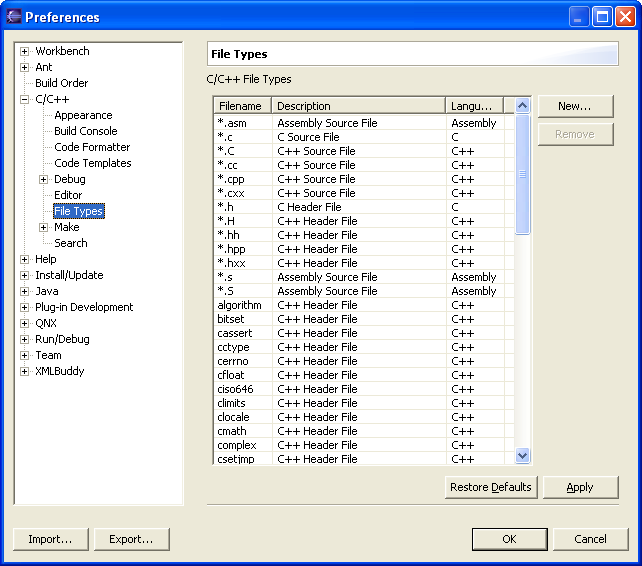
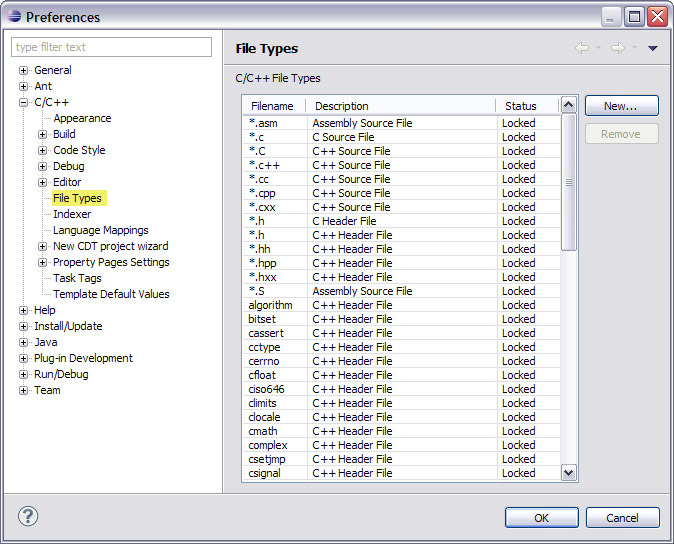
Revised Breakpoint Actions, Common Source Lookup, Editor, File Types, Debug, and Language Mapping preference panels for CDT-7.0.

diff --git a/doc/org.eclipse.cdt.doc.user/reference/cdt_u_debug.htm b/doc/org.eclipse.cdt.doc.user/reference/cdt_u_debug.htm
@@ -4,34 +4,64 @@
 <head>
 	<meta http-equiv="Content-Language" content="en-us">
 	<meta http-equiv="Content-Type" content="text/html; charset=UTF-8">
-	<title>Debug page, Preferences window</title>
+	<title>Debug Preferences</title>
 	<link rel="stylesheet" type="text/css" href="../help.css">
+	<script language="JavaScript" src="PLUGINS_ROOT/org.eclipse.help/livehelp.js"></script>
 </head>
 <body>
 
-<h1>Debug page, Preferences window</h1>
+<h1>Debug preferences</h1>
 
-<p>You can manipulate any of the common predefined debug settings by clicking <strong>Window &gt; Preferences &gt; C/C++ &gt; Debug</strong>.</p>
-
+<p>Use the <img src="../images/command_link.png" border="0" alt="" /> <a class="command-link" href='javascript:executeCommand("org.eclipse.ui.window.preferences(preferencePageId=org.eclipse.cdt.debug.ui.CDebugPreferencePage)")'>Debug</a> preference panel in the <b>Preferences</b> window to manage common globally defined debug settings.</p>
 <img src="../images/debug_pref.png"  alt="Debug Preferences">
-<dl>
-  <dt>Show Full Paths</dt>
-  <dd>Select this checkbox to show the full path to files and directories.</dd>
-  <dt>Default variable format:</dt>
-  <dd>Select the default variable format from either Natural, Decimal or Hexidecimal.</dd>
-  <dt>Default expression format:</dt>
-  <dd>Select the default expression format from either Natural, Decimal or Hexidecimal.</dd>
-  <dt>Default register format:</dt>
-  <dd>Select the default register format from either Natural, Decimal or Hexidecimal.</dd>
-  <dt>Maximum number of instructions:</dt>
-  <dd>Enter the maximum number of disassembly instruction to be shown in the Disassembly view.</dd>
-  <dt>Color of source lines:</dt>
-  <dd>Select the color of source lines in the mixed source/disassembly mode.</dd>
-</dl>
+
+<p />
+<table width="600px" cellpadding="4" cellspacing="0" border="1" fgcolor="DDD">
+	<caption><b>Debug Preference Options</b></caption>
+	<colgroup>
+		<col width="35%" valign="top" >
+		<col width="65%" valign="top" >
+	</colgroup>
+	<tbody>
+		<tr align="center">
+			<td ><b>Options</b></td>
+			<td ><b>Description</b></td>
+		</tr>
+		<tr>
+			<td><b>Show Full Paths</b></td>
+			<td>Select this checkbox to show the full path to files and directories.</td>
+		</tr>
+		<tr>
+			<td><b>Default variable format</b></td>
+			<td>Select the default variable format from either Natural, Hexidecimal, Decimal or binary.</td>
+		</tr>
+		<tr>
+			<td><b>Default expression format</b></td>
+			<td>Select the default expression format from either Natural, Hexidecimal, Decimal or binary.</td>
+		</tr>
+		<tr>
+			<td><b>Default register format</b></td>
+			<td>Select the default register format from either Natural, Hexidecimal, Decimal or binary.</td>
+		</tr>
+		<tr>
+			<td><b>Character encoding</b></td>
+			<td>Select a character encoding scheme from the dropdown list.</td>
+		</tr>
+		<tr>
+			<td><b>Maximum number of displayed instructions</b></td>
+			<td>Enter the maximum number of disassembly instruction to be shown in the Disassembly view.</td>
+		</tr>
+		<tr>
+			<td><b>Color of source lines</b></td>
+			<td>Select the color of source lines in the mixed source/disassembly mode.</td>
+		</tr>
+		<tr>
+			<td><b>Show source files in binaries</b></td>
+			<td>Select this checkbox to show the source files in binaries.</td>
+		</tr>
+	</tbody>
+</table>
 
 <p><img src="../images/ng00_04a.gif" ALT="IBM Copyright Statement" ></p>
-
-
 </body>
-
 </html>

diff --git a/doc/org.eclipse.cdt.doc.user/reference/cdt_u_language_mapping_pref.htm b/doc/org.eclipse.cdt.doc.user/reference/cdt_u_language_mapping_pref.htm
@@ -6,24 +6,29 @@
 <meta http-equiv="Content-Type" content="text/html; charset=UTF-8">
 <title>Language Mappings preferences</title>
 <link rel="stylesheet" type="text/css" href="../help.css">
+<script language="JavaScript" src="PLUGINS_ROOT/org.eclipse.help/livehelp.js"></script>
 </head>
 
 <body>
 
 <h1>Language Mappings preferences</h1>
 
-<p>Customize the use of C/C++ language associations in the <strong>Language Mappings</strong> preference panel for the workspace. </p>
-<p><img src="../images/view_language_mappings_prefs.png" width="627" height="544" alt="Language Mappings preferences"></p>
+<p>Use the <img src="../images/command_link.png" border="0" alt="" /> <a class="command-link" href='javascript:executeCommand("org.eclipse.ui.window.preferences(preferencePageId=org.eclipse.cdt.ui.preferences.LanguageMappings)")'>Language Mappings</a> preference panel to customize the use of C/C++ language associations for the workspace. </p>
+<p><img src="../images/view_language_mappings_prefs.png" alt="Language Mappings preferences"></p>
 
-<table width="600" cellpadding="5" cellspacing="0" border="1" >
+<table width="600" cellpadding="5" cellspacing="0" border="1" fgcolor="DDD" >
 	<caption>
-	<strong>Language Mappings  Options</strong>
+	<strong>Language Mappings Preference Options</strong>
 	</caption>
 	<colgroup>
 		<col width="30%" valign="top" >
 		<col width="70%" valign="top" >
 	</colgroup>
 	<tbody>
+		<tr align="center">
+			<td><strong>Options</strong></td>
+			<td><strong>Description</strong></td>
+		</tr>
 		<tr>
 			<td width="171" valign="top"><strong>Content Type </strong></td>
 			<td width="503" valign="top">The content type associated with the language. </td>
@@ -33,13 +38,13 @@
 			<td valign="top">The language associated with the content type. </td>
 		</tr>
 		<tr>
-			<td valign="top"><strong>Add</strong></td>
-			<td valign="top"><p>Click to show the <strong>Add Mapping</strong> dialog where you define the content type and language associated with it. </p>
-		    <p align="center"><img src="../images/view_add_mapping.png" width="216" height="134" alt="Add Mapping dialog"></p></td>
+			<td valign="top"><strong>Add...</strong></td>
+			<td valign="top">Click to show the <strong>Add Mapping</strong> dialog where you define the content type and language associated with it.<br />
+		    <p align="center"><img src="../images/view_add_mapping.png" alt="Add Mapping dialog"></p></td>
 		</tr>
 		<tr>
 		  <td valign="top"><strong>Remove</strong></td>
-		  <td valign="top">Click to remove the selected langauge mapping. </td>
+		  <td valign="top">Click to remove the selected language mapping. </td>
 	  </tr>
 	</tbody>
 </table>

diff --git a/doc/org.eclipse.cdt.doc.user/reference/cdt_u_dbg_brkpt_actions.htm b/doc/org.eclipse.cdt.doc.user/reference/cdt_u_dbg_brkpt_actions.htm
@@ -6,32 +6,36 @@
 	<meta http-equiv="Content-Type" content="text/html; charset=UTF-8">
 	<title>Breakpoint Actions preferences</title>
 	<link rel="stylesheet" type="text/css" href="../help.css">
+	<script language="JavaScript" src="PLUGINS_ROOT/org.eclipse.help/livehelp.js"></script>
 </head>
 <body>
 
 <h1>Breakpoint Actions preferences</h1>
 
-<p>Use the <strong>Breakpoint Actions</strong>  page in the Preferences window to create, edit, and remove breakpoint actions. The breakpoint actions defined here are available to all projects in the current workspace.</p>
-<p><img src="../images/cdt_pref_brk_action.png" width="581" height="527" alt="Breakpoint Actions preference page"></p>
+<p>Use the <img src="../images/command_link.png" border="0" alt="" /> <a class="command-link" href='javascript:executeCommand("org.eclipse.ui.window.preferences(preferencePageId=org.eclipse.cdt.debug.ui.breakpointactions.ActionsPreferencePage)")'>Breakpoint Actions</a>  page in the <b>Preferences</b> window to create, edit, and remove breakpoint actions. The breakpoint actions defined here are available to all projects in the current workspace.</p>
+<p><img src="../images/cdt_pref_brk_action.png" alt="Breakpoint Actions preference page"></p>
 
-<table width="600px" cellpadding="5" cellspacing="0" border="1" >
+<table width="600px" cellpadding="4" cellspacing="0" border="1" >
 	<caption><strong>Breakpoint Actions Preference Options</strong></caption>
 	<colgroup>
 		<col width="30%" valign="top" >
 		<col width="70%" valign="top" >
 	</colgroup>
 	<tbody>
-		<tr>
-			<td width="30%" valign="top"><strong>New...</strong></td>
-			<td valign="top"><p>To create a new breakpoint action, click <strong>New</strong>. </p>
-	        </td>
+		<tr align="center" >
+			<td><strong>Options</strong></td>
+			<td><strong>Description</strong></td>
 		</tr>
 		<tr>
-			<td width="30%" valign="top"><strong>Edit...</strong></td>
+			<td valign="top"><strong>New...</strong></td>
+			<td valign="top">To create a new breakpoint action, click <strong>New</strong>.</td>
+		</tr>
+		<tr>
+			<td valign="top"><strong>Edit...</strong></td>
 			<td valign="top">To edit the currently selected action, click <strong>Edit</strong>. In the  Action dialog box that appears, edit the action settings, then click <strong>OK</strong>. </td>
 		</tr>
 		<tr>
-			<td width="30%" valign="top"><strong>Delete</strong></td>
+			<td valign="top"><strong>Delete</strong></td>
 			<td valign="top">To delete the currently selected action, click <strong>Delete</strong>. </td>
 		</tr>
 	</tbody>

diff --git a/doc/org.eclipse.cdt.doc.user/reference/cdt_u_dbg_src.htm b/doc/org.eclipse.cdt.doc.user/reference/cdt_u_dbg_src.htm
@@ -6,14 +6,15 @@
 	<meta http-equiv="Content-Type" content="text/html; charset=UTF-8">
 	<title>Common Source Lookup Path preferences</title>
 	<link rel="stylesheet" type="text/css" href="../help.css">
+	<script language="JavaScript" src="PLUGINS_ROOT/org.eclipse.help/livehelp.js"></script>
 </head>
 <body>
 
 <h1>Common Source Lookup Path preference</h1>
 
-<p>Use the <strong>Common Source Lookup Path</strong> preference page to add or remove source containers.</p>
+<p>Use the <img src="../images/command_link.png" border="0" alt="" /> <a class="command-link" href='javascript:executeCommand("org.eclipse.ui.window.preferences(preferencePageId=org.eclipse.cdt.debug.ui.SourcePreferencePage)")'>Common Source Lookup Path</a> preference page to add or remove source containers.</p>
 
-<p><img src="../images/debug_src_pref.png"  alt="Debug Source Code Locations Preferences" width="627" height="544"></p>
+<p><img src="../images/debug_src_pref.png"  alt="Debug Source Code Locations Preferences" ></p>
 
   <table width="600px" cellpadding="5" cellspacing="0" border="1" >
     <caption>
@@ -24,9 +25,13 @@
       <col width="70%" valign="top" >
     </colgroup>
     <tbody>
+      <tr align="center">
+        <td valign="top"><strong>Options</strong></td>
+        <td><strong>Description</strong></td>
+      </tr>
       <tr>
         <td width="99" valign="top"><strong>Add...</strong></td>
-        <td width="475"><p>Opens the <strong>Add Source</strong> dialog to insert a new source container of one of the following types:</p>
+        <td width="475">Opens the <strong>Add Source</strong> dialog to insert a new source container of one of the following types:<br /><br />
           <ul>
 		  <li>File System Directory</li>
 		  <li>Path Mapping</li>
@@ -38,11 +43,11 @@
       </tr>
       <tr>
         <td valign="top"><strong>Edit...</strong></td>
-        <td>Opens the <strong>Edit File System Director</strong>y dialog to modify the currently selected souce container.</td>
+        <td>Opens the <strong>Edit File System Director</strong>y dialog to modify the currently selected source container.</td>
       </tr>
       <tr>
         <td valign="top"><strong>Remove</strong></td>
-        <td>Remove the currently selected souce container.</td>
+        <td>Remove the currently selected source container.</td>
       </tr>
       <tr>
         <td valign="top"><strong>Up</strong></td>

diff --git a/doc/org.eclipse.cdt.doc.user/reference/cdt_u_c_file_types.htm b/doc/org.eclipse.cdt.doc.user/reference/cdt_u_c_file_types.htm
@@ -4,21 +4,38 @@
 <head>
 	<meta http-equiv="Content-Language" content="en-us">
 	<meta http-equiv="Content-Type" content="text/html; charset=UTF-8">
-	<title>C/C++ File Types page, Preferences window</title>
+	<title>File Types preference (C/C++)</title>
 	<link rel="stylesheet" type="text/css" href="../help.css">
+	<script language="JavaScript" src="PLUGINS_ROOT/org.eclipse.help/livehelp.js"></script>
 </head>
 <body>
 
-<h1>C/C++ File Types page, Preferences window</h1>
+<h1>File Types preference (C/C++)</h1>
 
-<p>You can define which file extensions are linked to specific languages.</p>
-<p><img src="../images/cdt_pref_file_types.png" alt="File Types Preferences Dialog Box"></p>
-<dl>
-  <dt>New</dt>
-  <dd>Add a new File Type definition.</dd>
-  <dt>Remove</dt>
-  <dd>Remove the currently selected File Type definition.</dd>
-</dl>
+<p>Use the <img src="../images/command_link.png" border="0" alt="" /> <a class="command-link" href='javascript:executeCommand("org.eclipse.ui.window.preferences(preferencePageId=org.eclipse.cdt.ui.preferences.CFileTypesPreferences)")'>File Types</a> preference panel to define which file extensions are linked to specific languages.</p>
+<p><img src="../images/cdt_pref_file_types.png" alt="File Types Preferences Preference Panel"></p>
+
+<table width="600px" cellpadding="4" cellspacing="0" border="1" fgcolor="DDD">
+	<caption><strong>File Types Preference Options</strong></caption>
+	<colgroup>
+		<col width="35%" valign="top" >
+		<col width="65%" valign="top" >
+	</colgroup>
+	<tbody>
+		<tr align="center">
+			<td><strong>Options</strong></td>
+			<td><strong>Description</strong></td>
+		</tr>
+		<tr>
+			<td><strong>New...</strong></td>
+			<td>Add a new File Type definition.</td>
+		</tr>
+		<tr>
+			<td><b>Remove</b></td>
+			<td>Remove the currently selected File Type definition.</td>
+		</tr>
+	</tbody>
+</table>
 
 <p><img border="0" src="../images/ngconcepts.gif" ALT="Related concepts" width="143" height="21"> <br>
 <a href="../concepts/cdt_o_code_entry.htm">Coding aids</a></p>

diff --git a/doc/org.eclipse.cdt.doc.user/reference/cdt_u_c_editor_gen.htm b/doc/org.eclipse.cdt.doc.user/reference/cdt_u_c_editor_gen.htm
@@ -6,21 +6,26 @@
 	<meta http-equiv="Content-Type" content="text/html; charset=UTF-8">
 	<title>Editor preferences</title>
 	<link rel="stylesheet" type="text/css" href="../help.css">
+	<script language="JavaScript" src="PLUGINS_ROOT/org.eclipse.help/livehelp.js"></script>
 </head>
 <body>
 
 <h1>Editor preferences</h1>
 
-<p>Use the <strong>Editor</strong> preference panel to control the appearance of text highlighting in C/C++ editors.</p>
-<p><img src="../images/editor_general_preferences.png" alt="Editor Preferences Dialog Box"></p>
+<p>Use the <img src="../images/command_link.png" border="0" alt="" /> <a class="command-link" href='javascript:executeCommand("org.eclipse.ui.window.preferences(preferencePageId=org.eclipse.cdt.ui.preferences.CEditorPreferencePage)")'>Editor</a> preference panel to control the appearance of text highlighting in C/C++ editors.</p>
+<p><img src="../images/editor_general_preferences.png" alt="Editor Preferences Panel"></p>
 
-<table width="600px" cellpadding="5" cellspacing="0" border="1" >
+<table width="600px" cellpadding="4" cellspacing="0" border="1" fgcolor="DDD">
 	<caption><strong>Editor Preference Options</strong></caption>
 	<colgroup>
 		<col width="30%" valign="top" >
 		<col width="70%" valign="top" >
 	</colgroup>
 	<tbody>
+		<tr align="center">
+			<td><strong>Options</strong></td>
+			<td><strong>Description</strong></td>
+		</tr>
 		<tr>
 			<td><strong>Smart caret positioning in identifiers</strong></td>
 			<td>If enabled, there are additional word boundaries inside identifiers.</td>
